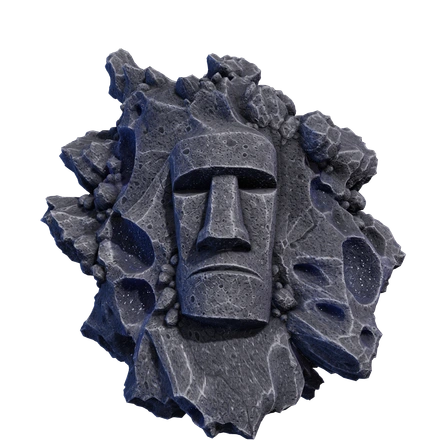
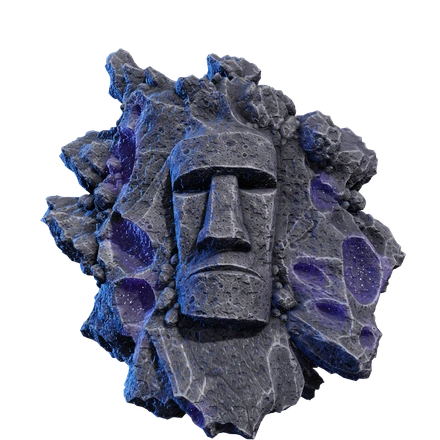
Make meteor texture and rear-left glow readable at home scale

diff --git a/frontend/moyai-surface.ts b/frontend/moyai-surface.ts
@@ -6,7 +6,7 @@ export function finishMeteorSurface(mesh: THREE.Mesh) {
   const materials = Array.isArray(mesh.material) ? mesh.material : [mesh.material]
   for (const material of materials) {
     if (!(material instanceof THREE.MeshStandardMaterial)) continue
-    material.normalScale.set(1.25, 1.25)
+    material.normalScale.set(1.4, 1.4)
     material.onBeforeCompile = shader => {
       shader.vertexShader = shader.vertexShader.replace('#include <common>', `
         #include <common>
@@ -46,15 +46,20 @@ export function finishMeteorSurface(mesh: THREE.Mesh) {
       `).replace('#include <map_fragment>', `
         #include <map_fragment>
         float moyaiCavity = smoothstep(0.09, 0.68, moyaiSurfaceCavity);
+        // Broad chips survive the small home-screen projection; fine grain fades
+        // with the pixel footprint instead of turning into distant shimmer.
+        float moyaiChips = moyaiNoise(moyaiSurfacePosition * 10.0);
+        float moyaiPits = 1.0 - smoothstep(0.22, 0.40, moyaiNoise(moyaiSurfacePosition * 23.0));
         float moyaiGrain = moyaiNoise(moyaiSurfacePosition * 32.0);
         float moyaiPores = 1.0 - smoothstep(0.23, 0.39, moyaiNoise(moyaiSurfacePosition * 57.0));
         float moyaiFootprint = max(length(dFdx(moyaiSurfacePosition)), length(dFdy(moyaiSurfacePosition)));
         float moyaiFineDetail = 1.0 - smoothstep(0.025, 0.07, moyaiFootprint);
-        vec3 moyaiCell = moyaiSurfacePosition * 52.0;
+        vec3 moyaiCell = moyaiSurfacePosition * 40.0;
         float moyaiSeed = moyaiHash(floor(moyaiCell));
         float moyaiCrystal = 1.0 - smoothstep(0.10, 0.30, length(fract(moyaiCell) - 0.5));
         float moyaiGlitter = moyaiCrystal * step(0.91, moyaiSeed) * moyaiCavity;
-        diffuseColor.rgb *= 0.80 + 0.24 * moyaiGrain - 0.15 * moyaiPores * moyaiFineDetail;
+        diffuseColor.rgb *= 0.68 + 0.42 * moyaiChips - 0.20 * moyaiPits
+          + (0.08 * moyaiGrain - 0.08 * moyaiPores) * moyaiFineDetail;
       `).replace('#include <roughnessmap_fragment>', `
         #include <roughnessmap_fragment>
         roughnessFactor = mix(max(roughnessFactor, 0.84), 0.24, moyaiGlitter);
@@ -63,19 +68,28 @@ export function finishMeteorSurface(mesh: THREE.Mesh) {
         metalnessFactor = max(metalnessFactor, moyaiGlitter * 0.65);
       `).replace('#include <normal_fragment_maps>', `
         #include <normal_fragment_maps>
-        float moyaiHeight = 0.0045 * moyaiGrain - 0.0045 * moyaiPores
-          + 0.0015 * moyaiNoise(moyaiSurfacePosition * 110.0);
-        normal = moyaiBumpNormal(-vViewPosition, normal, moyaiHeight * moyaiFineDetail, faceDirection);
+        float moyaiHeight = 0.024 * moyaiChips - 0.014 * moyaiPits
+          + (0.0045 * moyaiGrain - 0.0045 * moyaiPores
+          + 0.0015 * moyaiNoise(moyaiSurfacePosition * 110.0)) * moyaiFineDetail;
+        normal = moyaiBumpNormal(-vViewPosition, normal, moyaiHeight, faceDirection);
       `).replace('#include <emissivemap_fragment>', `
         #include <emissivemap_fragment>
-        vec3 moyaiMineralColor = mix(vec3(0.012, 0.07, 0.34), vec3(0.11, 0.025, 0.34),
-          moyaiNoise(moyaiSurfacePosition * 3.0) * 0.65);
+        vec3 moyaiMineralColor = mix(vec3(0.025, 0.09, 0.42), vec3(0.22, 0.025, 0.50),
+          0.35 + moyaiNoise(moyaiSurfacePosition * 3.0) * 0.40);
         float moyaiCraterEdge = 1.0 - abs(dot(normal, normalize(vViewPosition)));
-        totalEmissiveRadiance += moyaiMineralColor * moyaiCavity * (0.028 + 0.14 * pow(moyaiCraterEdge, 2.0));
+        totalEmissiveRadiance += moyaiMineralColor * moyaiCavity * (0.09 + 0.30 * pow(moyaiCraterEdge, 2.0));
         float moyaiGlintAngle = 0.2 + 0.8 * pow(max(dot(normal, normalize(vViewPosition)), 0.0), 12.0);
         totalEmissiveRadiance += vec3(0.36, 0.57, 1.0) * moyaiGlitter * moyaiGlintAngle * 2.2;
+        // A directional grazing highlight traces the broken rear-left contour,
+        // opposite the face in a three-quarter view, without a flat CSS halo.
+        float moyaiRimFacing = smoothstep(0.05, 0.70,
+          dot(normal, normalize(vec3(-0.8, 0.25, -0.55))));
+        float moyaiRearLeft = 1.0 - smoothstep(-0.4, 1.3,
+          moyaiSurfacePosition.x + moyaiSurfacePosition.z * 0.75);
+        float moyaiRim = pow(moyaiCraterEdge, 1.85) * moyaiRimFacing * moyaiRearLeft;
+        totalEmissiveRadiance += vec3(0.025, 0.19, 0.75) * moyaiRim * 1.25;
       `)
     }
-    material.customProgramCacheKey = () => 'moyai-weathered-stone-v1'
+    material.customProgramCacheKey = () => 'moyai-weathered-stone-v2'
   }
 }

diff --git a/frontend/moyai-sculpture.ts b/frontend/moyai-sculpture.ts
@@ -32,8 +32,8 @@ export function mountSculpture(host: HTMLElement | null) {
   // The model is centered and normalized offline for this home-screen framing.
   camera.position.set(0, 0, 8.6)
   camera.lookAt(0, 0, 0)
-  scene.add(new THREE.HemisphereLight(0xb2bed5, 0x161820, .45))
-  for (const [color, power, x, y, z] of [[0xf0f2f8, 3.8, 3, 5, 5], [0x7a9be6, 2.4, -4, 0, -2], [0x9b86d8, .95, 3, 1, -3], [0x829ee8, .9, -4, -2, 3]]) {
+  scene.add(new THREE.HemisphereLight(0xb2bed5, 0x161820, .32))
+  for (const [color, power, x, y, z] of [[0xf0f2f8, 4.1, 3, 5, 5], [0x658bff, 5.2, -4, 1, -2], [0x9b86d8, .95, 3, 1, -3], [0x829ee8, .60, -4, -2, 3]]) {
     const light = new THREE.DirectionalLight(color, power)
     light.position.set(x, y, z); scene.add(light)
     if (y === 5 || y === -2) {

diff --git a/docs/shadcn-ui.md b/docs/shadcn-ui.md
@@ -31,9 +31,12 @@ and sculpting it is not a runtime or normal build step. See
 The offline art pass widens the meteor's depth, gives its oval outline a slight
 lean, and varies ridge sizes while protecting the face. Preserve its framing
 against the viewer's camera when editing the geometry.
-`frontend/moyai-surface.ts` adds object-space grain, pitting and mineral glints
+`frontend/moyai-surface.ts` adds coarse chips plus fine object-space grain, pitting and mineral glints
 to the supplied PBR material. The baked `_MOYAI_CAVITY` attribute localizes blue
 and violet highlights to authored crater bowls, with faint concavity accents.
+Broad relief remains visible at home-screen size while fine detail fades with
+pixel footprint. Purple crater highlights and a directional rear-left blue rim
+separate the broken outline from the background without a CSS halo.
 Glints respond to rotation without a continuous animation loop. Avoid a
 photo-projection shader or a separate overlapping sheen mesh.
 

diff --git a/scripts/assets/moyai-model.md b/scripts/assets/moyai-model.md
@@ -51,7 +51,10 @@ The `_MOYAI_CAVITY` scalar attribute combines hand-placed crater bowl volumes wi
 a weak smoothed concavity signal. Bowl axes and depth caps keep highlights off
 the surrounding boulders. The runtime material adds fine object-space grain and
 pitting, high stone roughness, restrained blue/violet interior highlights, and
-sparse reflective mineral flecks. The material has no clock or extra animation
+sparse reflective mineral flecks. A second, coarser relief scale keeps the stone
+legible at 160–220px. Stronger purple crater emission and rear-left grazing light
+follow the surface geometry; the face receives little of that rim accent.
+The material has no clock or extra animation
 loop; the same angle always renders the same detail.
 
 Reproduce using Node.js and temporary offline dependencies (not runtime packages):
